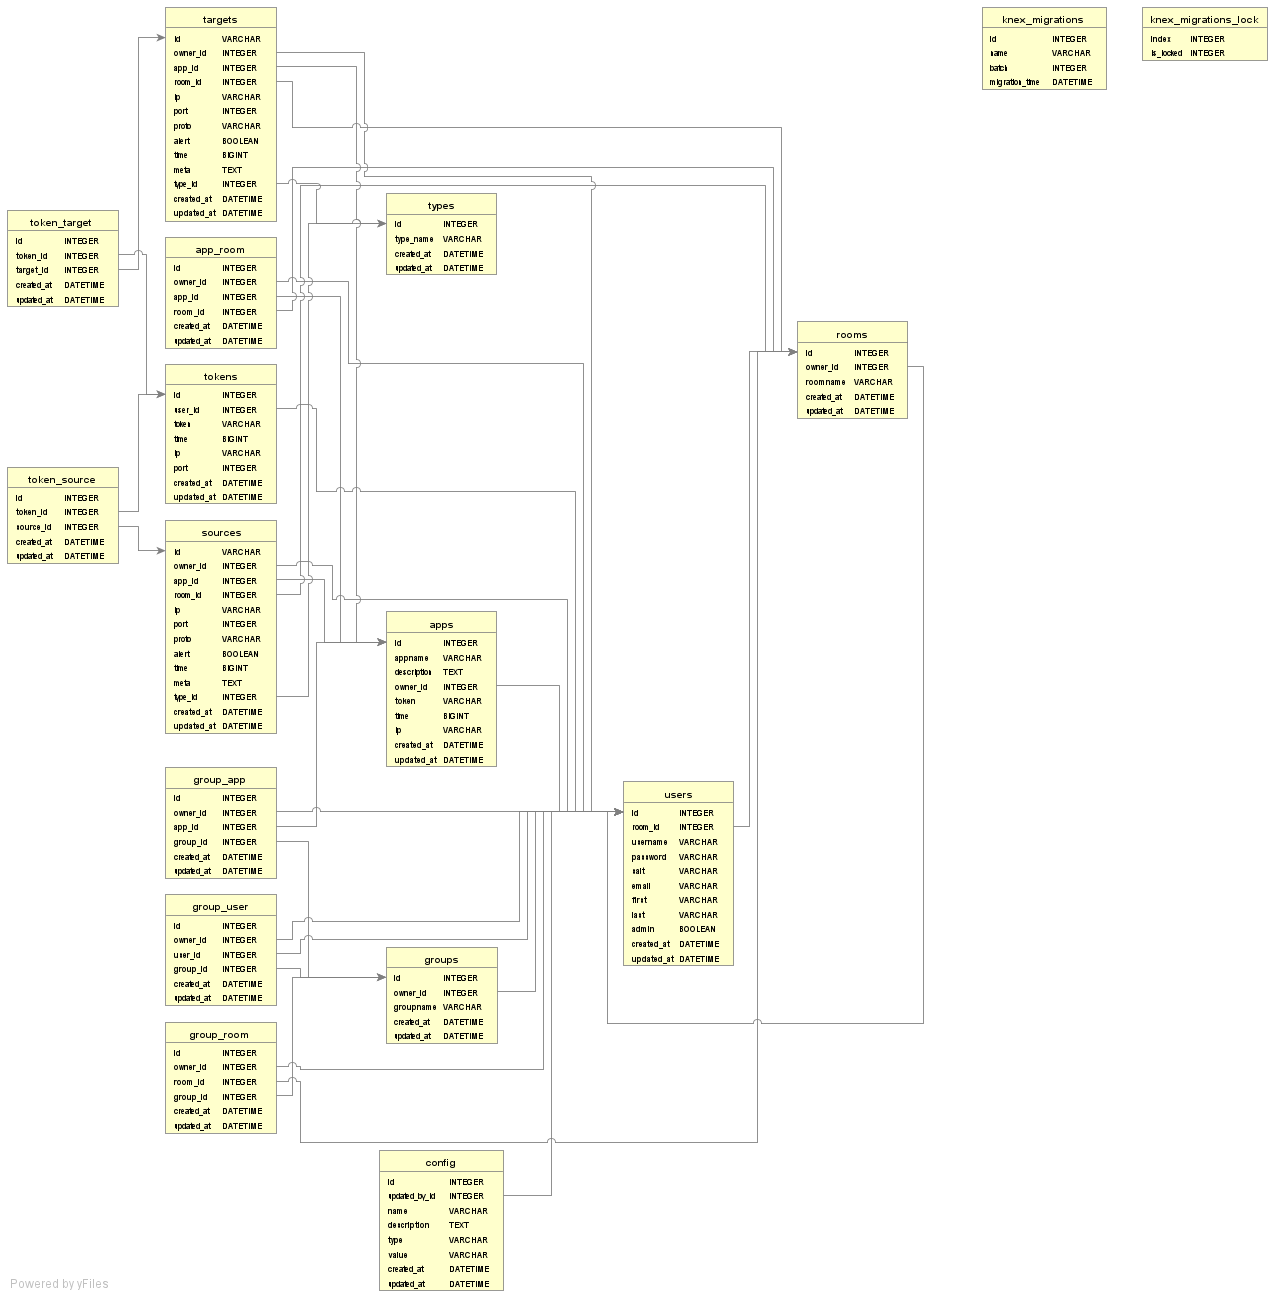
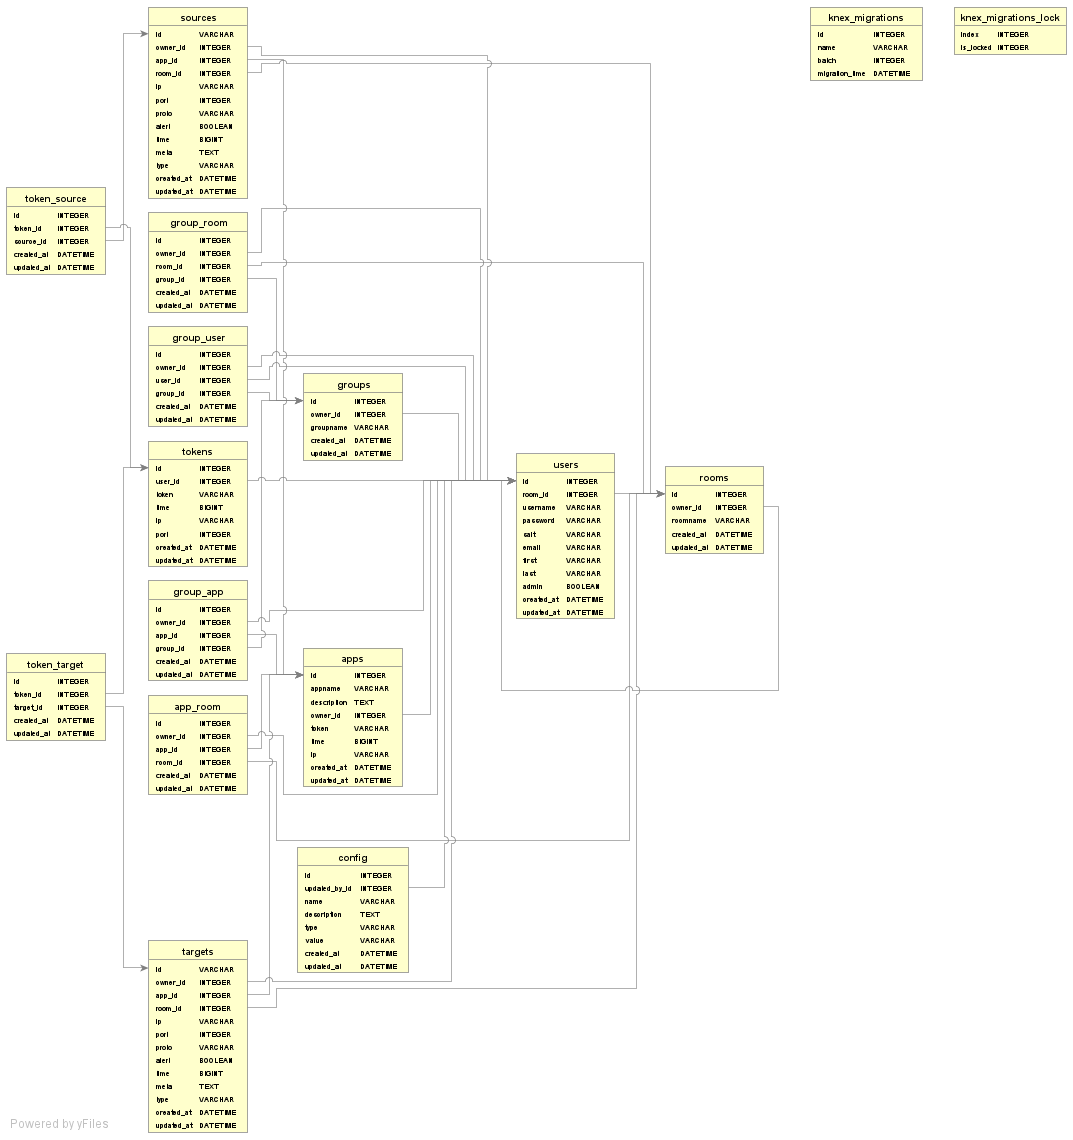
user updates and recorder path

Changed region(s): [[0.0, 0.0, 0.7381, 1.0], [0.7381, 0.0, 1.0, 0.0921], [0.0, 0.9825, 0.0923, 1.0]]

diff --git a/corelink.js b/corelink.js
@@ -284,7 +284,7 @@ function hashSha512(password, salt) {
 function saltHashPassword(userpassword) {
   var salt = genRandomString(16) // Gives us salt of length 16
   var passwordData = sha512(userpassword, salt)
-  return passwordData
+  return { password: passwordData, salt }
 }
 */
 
